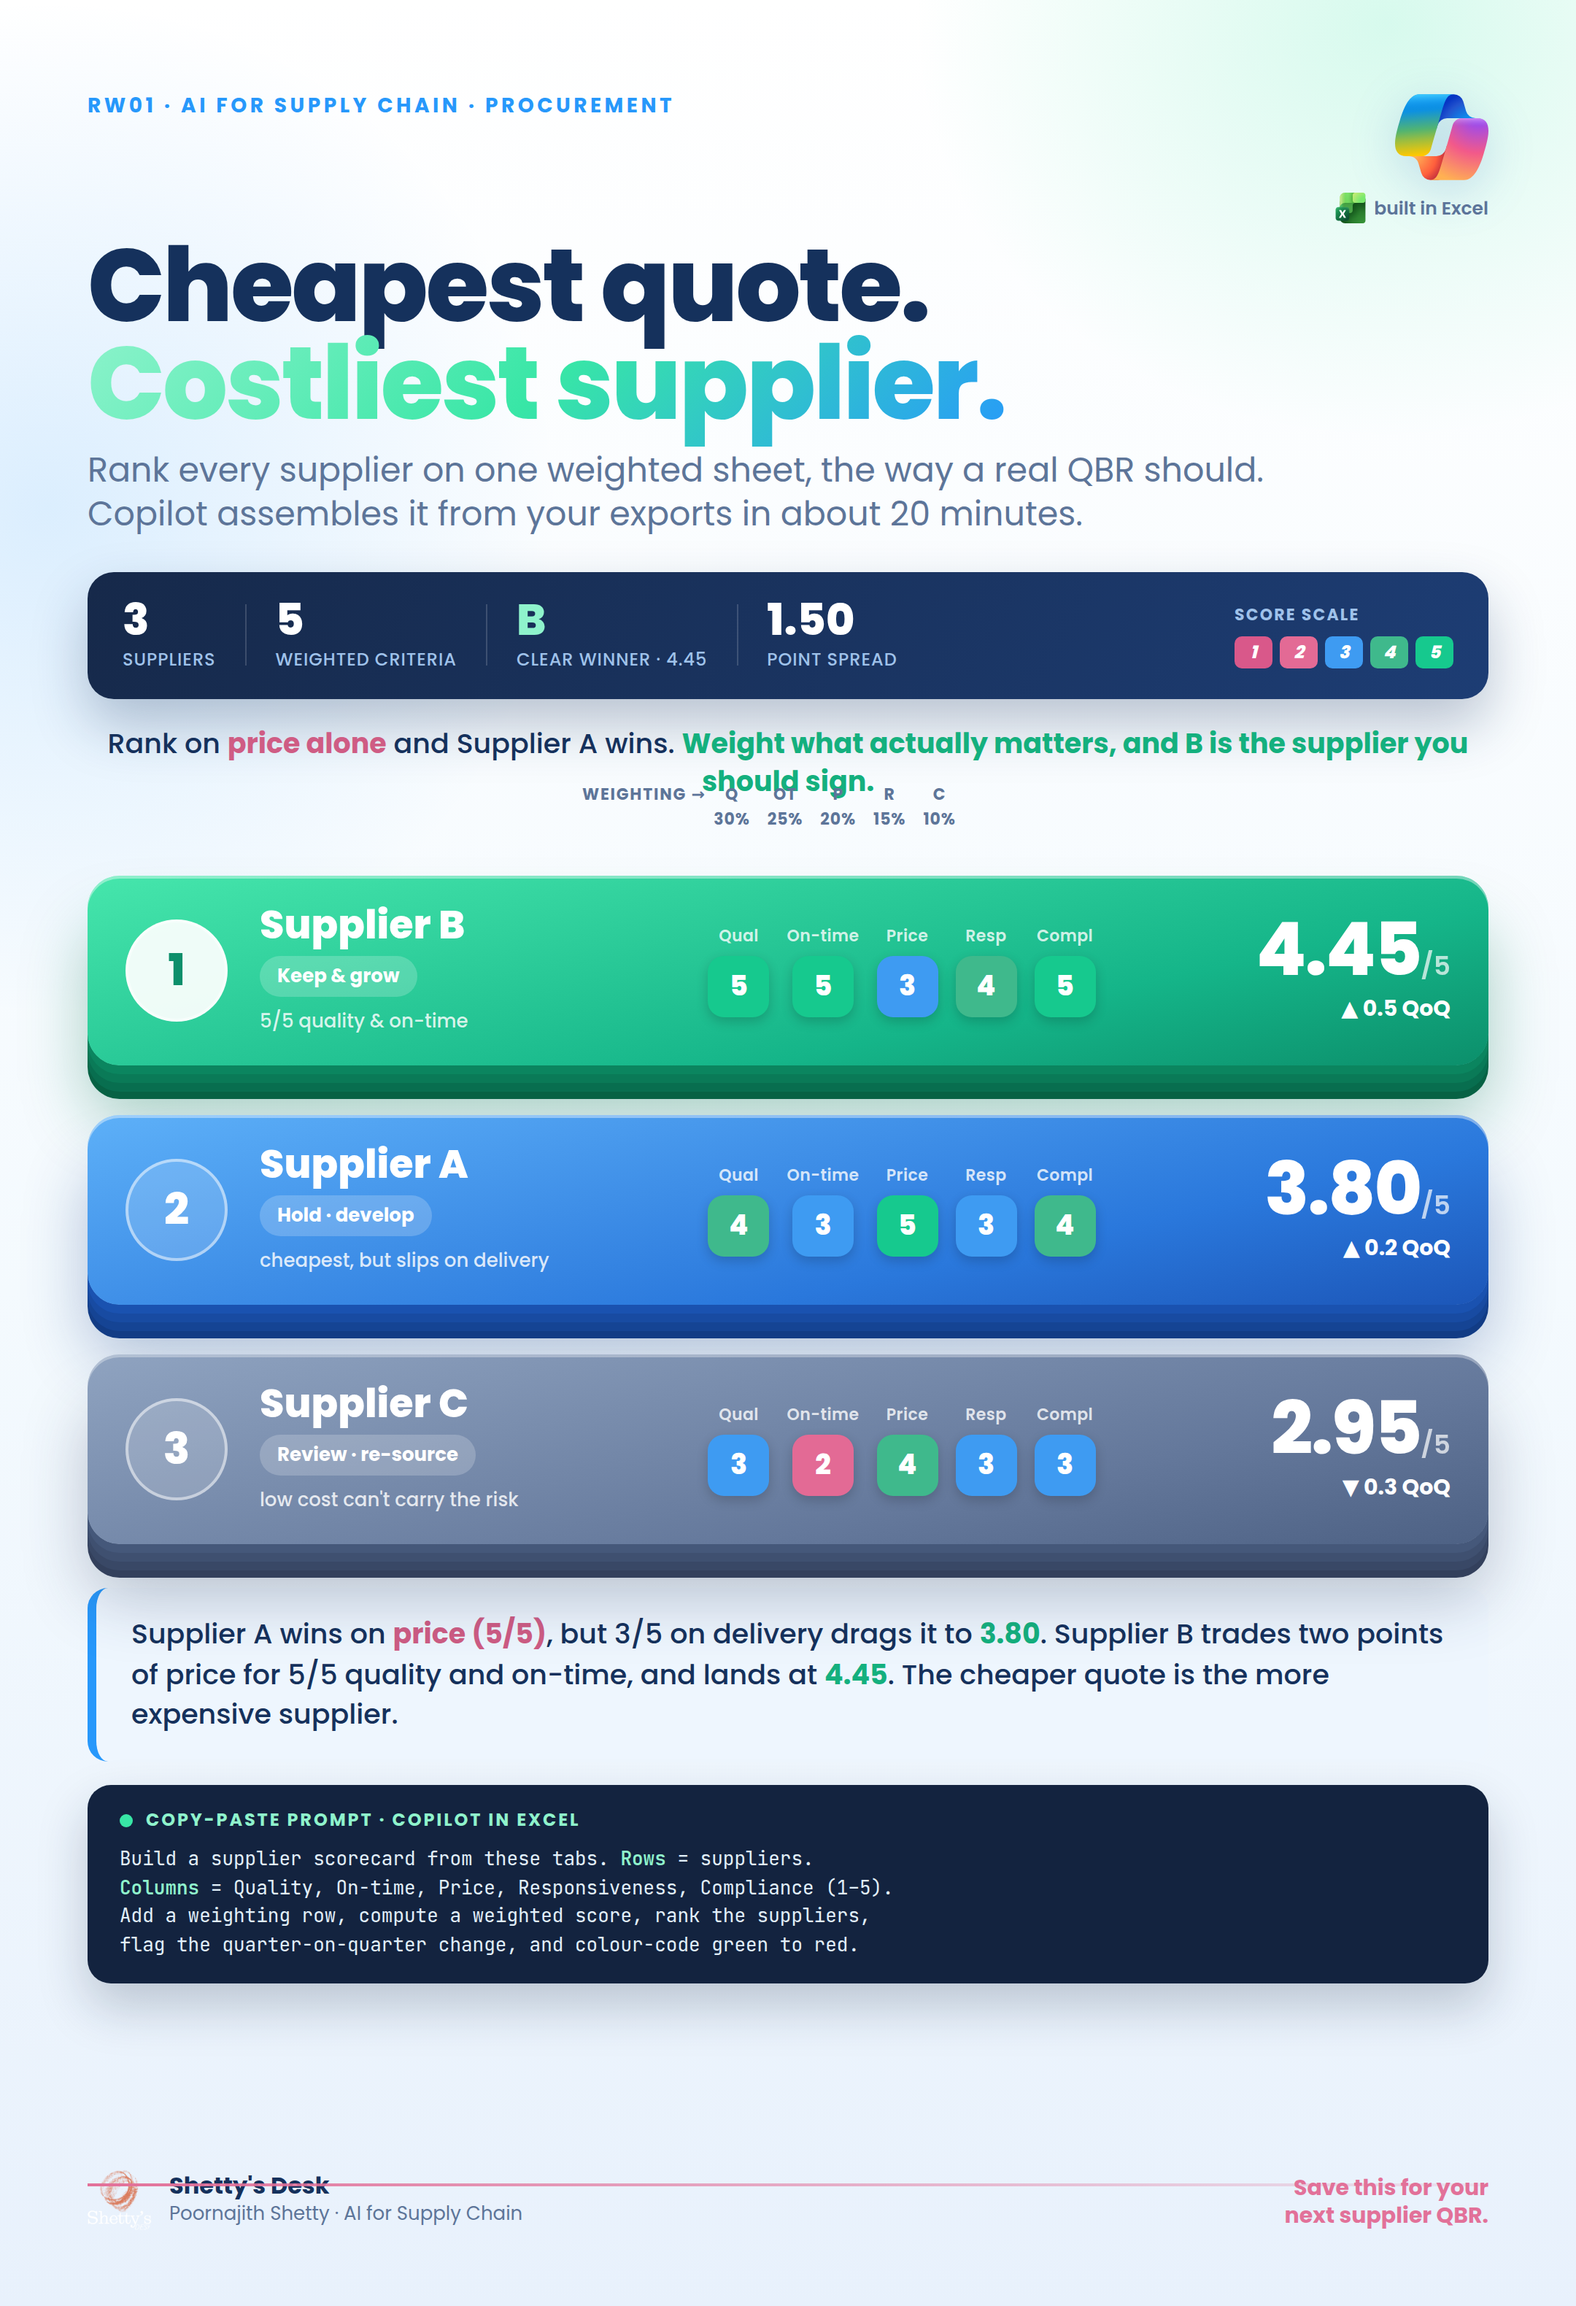
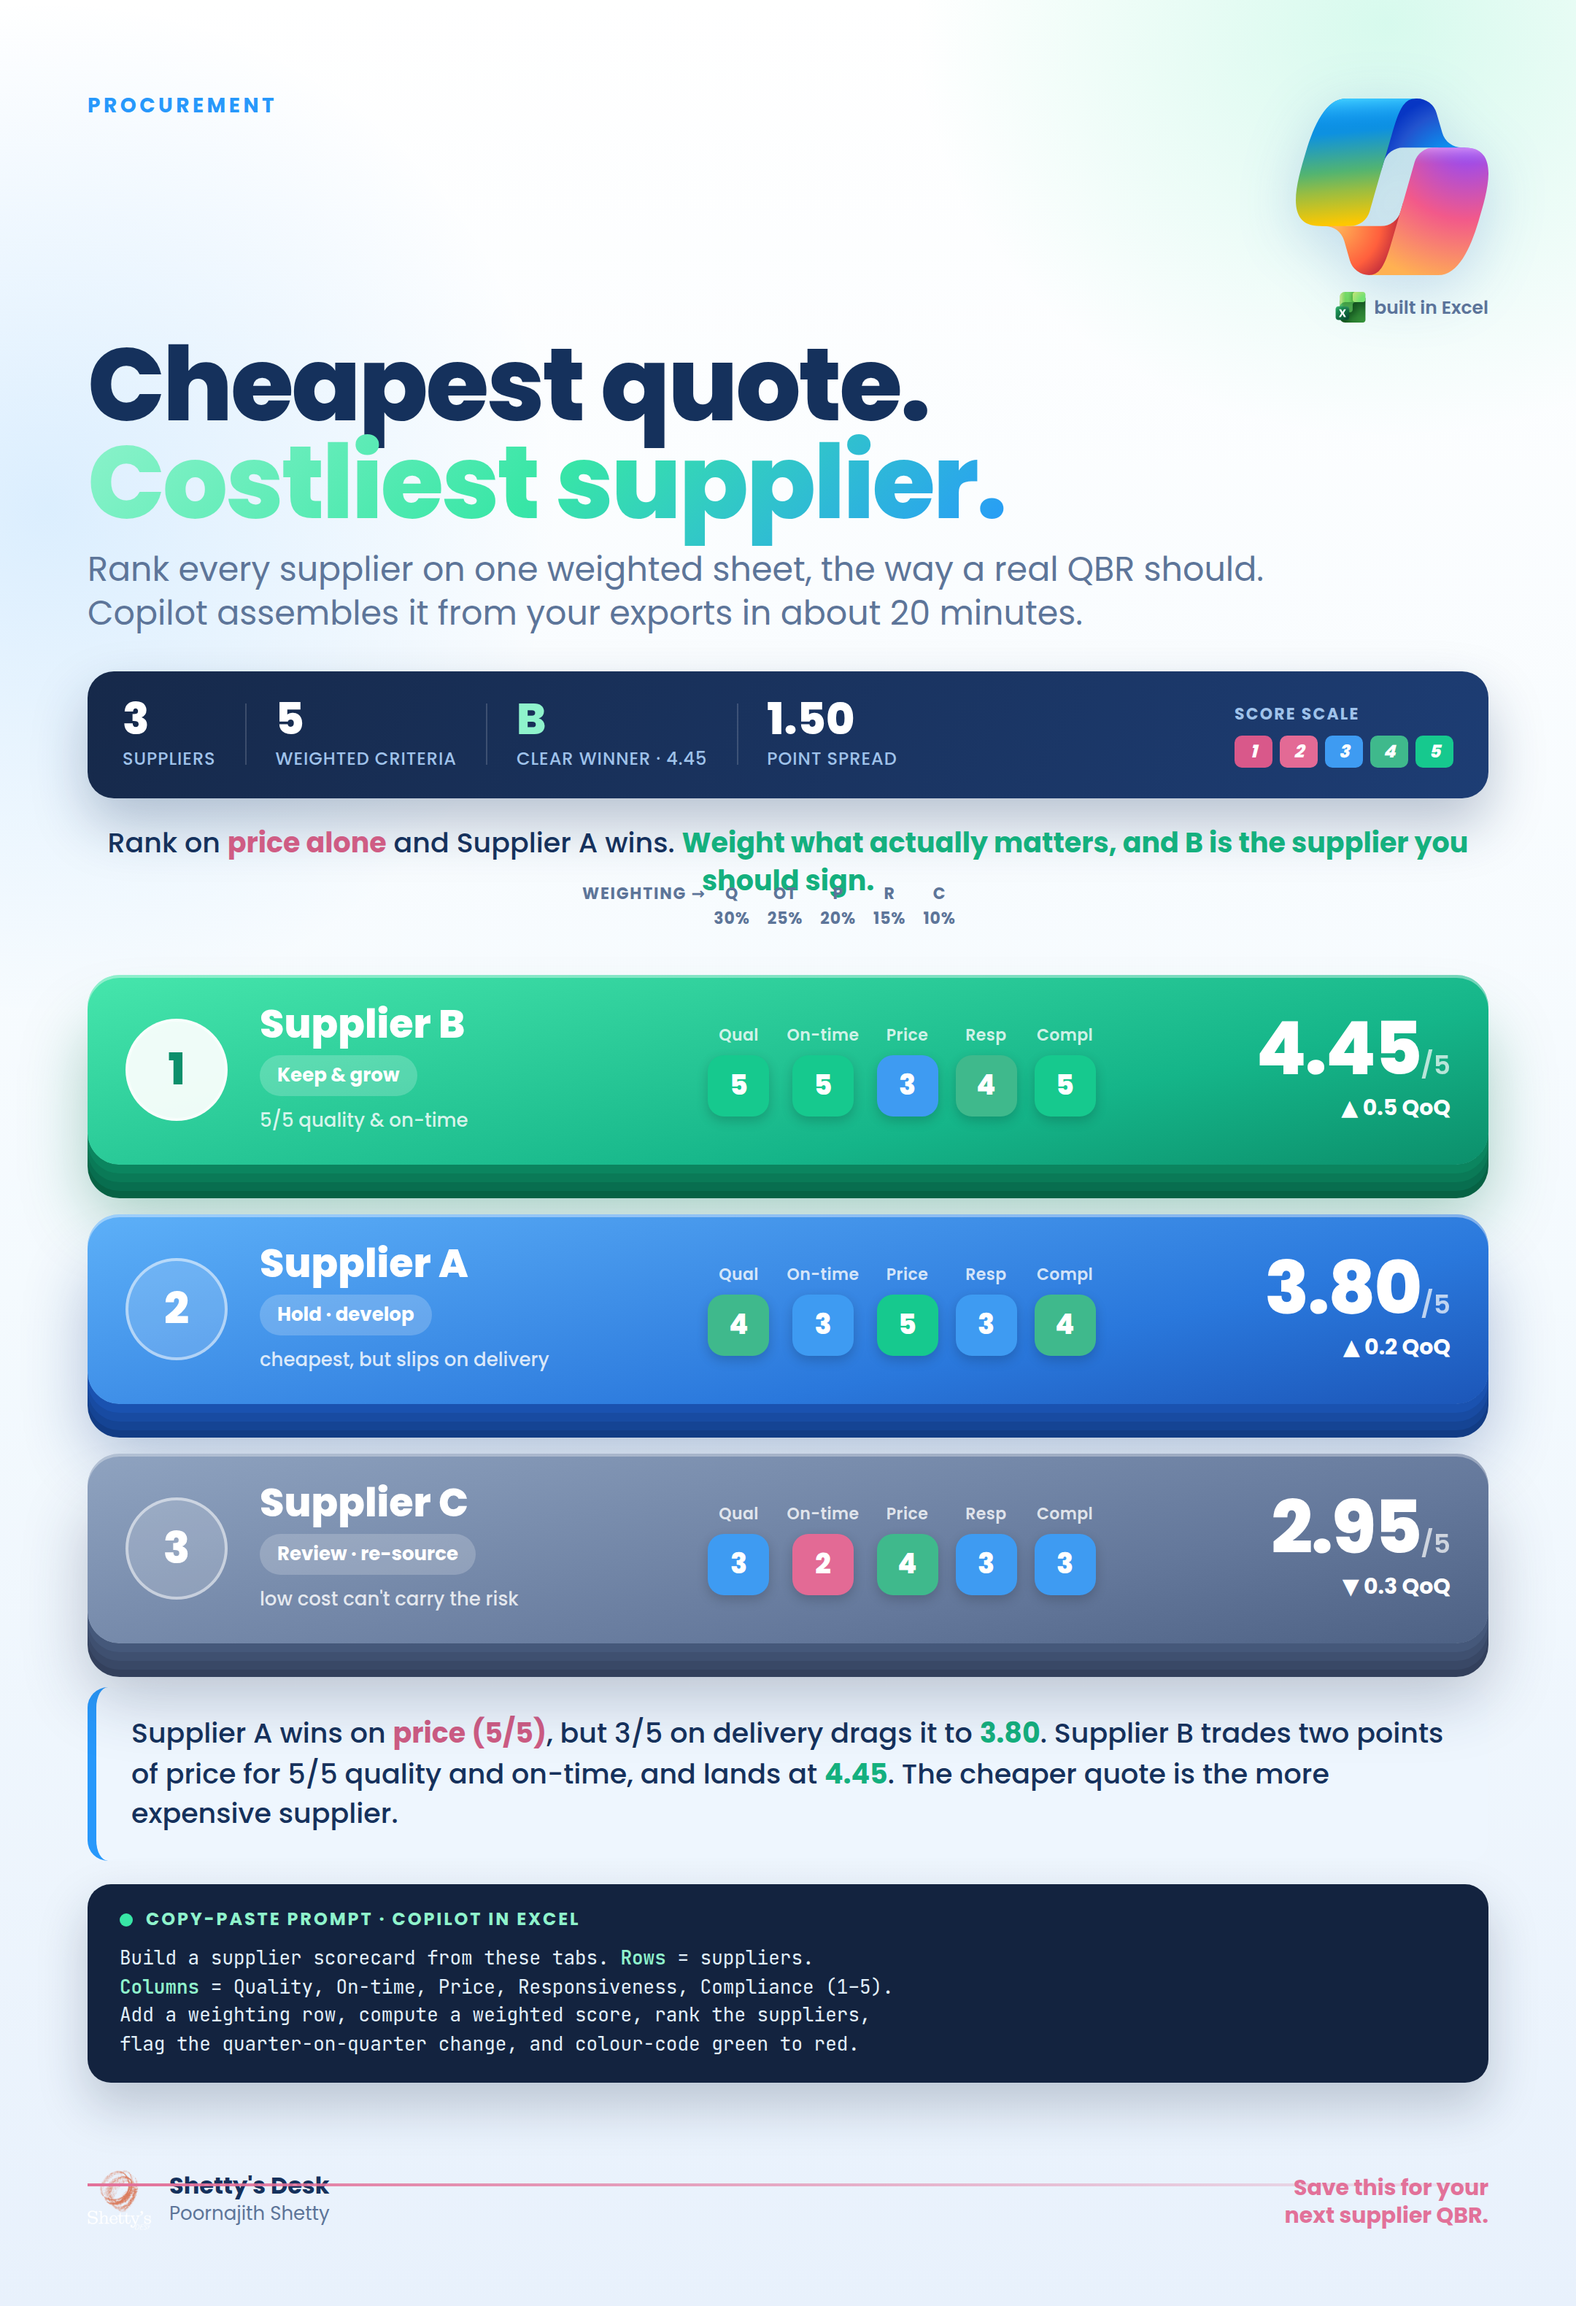
Clean in-image labels + bigger Copilot mark; add gif-storyboard workflow step
- ai05-supplier-scorecard-3d: remove RW01 + "AI for Supply Chain" from the
  published image (kicker now "Procurement"; footer now just Shetty's Desk /
  Poornajith Shetty); enlarge the Copilot logo to a ~132px hero corner mark.
- New skill .claude/skills/gif-storyboard: codifies the next phase — turn an
  approved still into a short looping GIF from its OWN elements via HyperFrames/
  GSAP (motion spine per layout, brand motion grammar, beats table, build steps).
- Add a concrete GIF storyboard (beats table) to the supplier-scorecard post.
- Icon libs: @lobehub/icons (871 brand logos) + lucide-animated installed.
  Note: lucide-animated is React+Framer-Motion (peer react/motion); our render
  engine is HTML+GSAP, so animated icons will be done by GSAP-animating the
  in-repo Lucide/lobehub SVGs unless we add a Remotion path.

Deep-research agent running separately to produce references/layout-frameworks-intelligence.md.

Claude-Session: https://claude.ai/code/session_01QHwTCVSbkRhv54hCup5HwM

diff --git a/infographic-setup/renderer/templates/ai05-supplier-scorecard-3d.html b/infographic-setup/renderer/templates/ai05-supplier-scorecard-3d.html
@@ -24,7 +24,7 @@
   .top{display:flex;justify-content:space-between;align-items:flex-start}
   .kick{font-size:14px;font-weight:700;letter-spacing:.16em;text-transform:uppercase;color:var(--azure)}
   .toolmark{display:flex;flex-direction:column;align-items:flex-end;gap:6px}
-  .toolmark>img{width:64px;height:64px;filter:drop-shadow(0 7px 16px rgba(33,93,195,.20))}
+  .toolmark>img{width:132px;height:132px;filter:drop-shadow(0 9px 20px rgba(33,93,195,.22))}
   .toolmark .tl{font-size:12.5px;font-weight:600;color:var(--muted);display:flex;align-items:center;gap:6px}
   .toolmark .tl img{width:21px;height:21px}
   h1{font-size:70px;font-weight:800;line-height:.95;margin-top:10px;letter-spacing:-1.5px;color:var(--ink)}
@@ -107,7 +107,7 @@
 <body>
 <div id="card">
   <div class="top">
-    <span class="kick">RW01 · AI for Supply Chain · Procurement</span>
+    <span class="kick">Procurement</span>
     <div class="toolmark"><img src="../assets/logos/copilot-color.svg" alt="Copilot"><span class="tl"><img src="../assets/logos/sc/excel.svg" alt="Excel"> built in Excel</span></div>
   </div>
   <h1>Cheapest quote.<br><span class="g">Costliest supplier.</span></h1>
@@ -181,7 +181,7 @@ flag the quarter-on-quarter change, and colour-code green to red.</pre>
   </div>
 
   <div class="foot">
-    <div class="who"><img src="../assets/logos/shettys-desk-logo-1.png" alt="Shetty's Desk"><div><div class="nm">Shetty's Desk</div><div class="hd">Poornajith Shetty · AI for Supply Chain</div></div></div>
+    <div class="who"><img src="../assets/logos/shettys-desk-logo-1.png" alt="Shetty's Desk"><div><div class="nm">Shetty's Desk</div><div class="hd">Poornajith Shetty</div></div></div>
     <div class="save">Save this for your<br>next supplier QBR.</div>
   </div>
 </div>

diff --git a/infographic-setup/.claude/skills/gif-storyboard/SKILL.md b/infographic-setup/.claude/skills/gif-storyboard/SKILL.md
@@ -1,0 +1,69 @@
+---
+name: gif-storyboard
+description: Use after a still infographic is approved, to storyboard and build a short looping GIF/MP4 from the infographic's OWN elements via HyperFrames/GSAP. Invoked with /gif-storyboard [slug]. Turns a static code-rendered infographic into a motion version without redesigning it.
+---
+
+# GIF Storyboard — from infographic to motion (Shetty's Desk)
+
+## Purpose
+Every AI-for-SC (and optionally 101) post ships a **still** first (the deterministic code-render).
+This skill adds the **next phase**: a short, looping **motion** version built from the *same elements*
+of the approved still — no new design, just choreographed reveal. Output feeds the HyperFrames /
+in-repo GSAP anim lane (`renderer/render-anim.mjs` → MP4 + GIF).
+
+**Rule of the lane:** the GIF is the still in motion. Do not invent new content for the GIF — animate
+what is already on the approved infographic. Depth (3D) is kept; motion adds *sequence and emphasis*.
+
+## When to run
+After the still template is approved (`renderer/templates/<slug>.html` → `out/<slug>.png`).
+```
+/gif-storyboard [slug]
+```
+
+## Step 1 — Inventory the elements (from the approved still)
+List every animatable element and its role: title, tool mark, stat-band KPIs, legend, the hero
+(slabs / funnel / bars / cards), per-item data (chips, scores, deltas), insight band, prompt block, footer.
+
+## Step 2 — Choose the motion spine (how the argument unfolds)
+Pick ONE narrative spine that matches the layout's visual rhetoric, then sequence reveals to it:
+
+| Layout (still) | Motion spine (the GIF tells this story) |
+|---|---|
+| Ranked slabs / podium (PF7) | build the field, then the **rank resolves** — losers settle, winner rises + crown lands |
+| Funnel | pour from the wide top, each stage **narrows and drops count** to the eco tip |
+| Comparison / versus | left "claim" types in, then the right **counter answers it** row by row |
+| Maturity ladder | climb **level by level**, "START HERE" pulses at the base |
+| Formula / KPI card | inputs fly in → **formula assembles** → result counts up |
+| Waterfall / bridge | bars **step up/down** to the final total |
+| Process flow / cycle | a token **travels the path**, each node lights as it passes |
+| Anatomy / hub | center appears → **spokes/labels radiate** outward |
+
+## Step 3 — The brand motion grammar (keep it disciplined)
+- **Seek-safe, deterministic** (works with `render-anim.mjs` scrub + HyperFrames): one paused GSAP
+  master timeline on `window.__tl`, `window.__dur`, `window.__ready`. No `Date.now()`/`Math.random()`.
+- **Reveal, don't decorate.** Each element enters once, with intent. Stagger top→bottom / build→resolve.
+- **Earn the climax.** ~70% of the timeline builds; the last ~30% is the payoff (winner rises, funnel hits 1, counter lands, result counts up).
+- **Numbers count up** (stat-band KPIs, weighted scores, percentages) — motion makes data feel computed.
+- **Eco-green is the resolve color** — the positive/win element gets the final highlight beat.
+- **Icons can animate** (draw-on stroke, pop-in, gentle loop) — animate the Lucide/lobehub SVGs in
+  `renderer/assets/` with GSAP (we do NOT use React `lucide-animated`; same result, fits the engine).
+- **Loop clean:** end on a held, complete frame (`HOLD_S`) so the GIF rests on the full infographic.
+- Length **5–8s**, GIF width ~640 for LinkedIn.
+
+## Step 4 — Write the storyboard (beats table)
+Produce a beats table: `t (s) | element | motion | ease | note`. Save it in the post file under
+`## GIF Storyboard`. This is the spec the anim template implements.
+
+## Step 5 — Build + render
+- Copy the approved still template → `<slug>-anim.html`; add the GSAP timeline per the beats; expose
+  `__tl/__dur/__ready`; set initial states with `gsap.from`/`set`.
+- Render: `HOLD_S=1.5 GIF_W=640 CHROME_PATH=<chrome> NODE_PATH=$(npm root -g) node render-anim.mjs templates/<slug>-anim.html out/<slug>`
+- QA the GIF against the still (same final frame), then save `<slug>.gif` + `.mp4` with the post.
+
+## Step 6 — (Optional) HyperFrames CLI path
+For richer motion-graphic treatments, author the same composition for the installed HyperFrames skills
+(`/motion-graphics`) and render with `npx hyperframes render --browser-path <chrome>`. Same paradigm
+(code → deterministic motion, no API cost); use when the GIF needs more than reveal choreography.
+
+## Token budget
+~1–2K. Reads the still template + post file; writes the storyboard + one anim template.

diff --git a/infographic-setup/data/2026-W26/supplier-scorecard-qbr/ai-for-sc-supplier-scorecard-qbr.md b/infographic-setup/data/2026-W26/supplier-scorecard-qbr/ai-for-sc-supplier-scorecard-qbr.md
@@ -108,3 +108,25 @@ Return it as a clean table on a new sheet called "QBR Scorecard".
 | AI still | Higgsfield (Recraft 4.1) | `data/2026-W26/render-experiment/higgsfield-ai05.png` |
 
 Comparative analysis: `data/2026-W26/render-experiment/analysis.md`.
+
+**Flagship still (current direction):** `renderer/templates/ai05-supplier-scorecard-3d.html` → `out/ai05-supplier-scorecard-3d.png` — 3D extruded ranked slabs, dark stat-band + score legend, big Copilot mark, no RW01/series labels in-image.
+
+---
+
+## GIF Storyboard (HyperFrames / GSAP anim lane)
+
+**Motion spine:** ranked slabs — *build the field, then the rank resolves* (winner B rises + crown lands). 6.5s, hold 1.5s, loop. Built from the 3D still's own elements (no new content).
+
+| t (s) | Element | Motion | Ease | Note |
+|---|---|---|---|---|
+| 0.0–0.6 | Title + Copilot mark | title fade/slide up; Copilot mark pops in (scale 0→1, slight spin) | back.out | mark is the hero corner |
+| 0.5–1.1 | Stat-band | slides down; KPIs **count up** (3 · 5 · B · 1.50) | power2 | numbers feel computed |
+| 1.0–1.3 | Score legend | chips 1→5 pop left-to-right | back.out | sets the 1–5 scale |
+| 1.3–1.6 | THE SHIFT line | "price alone → A" flashes **coral**, then "weight what matters → B" resolves **eco** | power1 | the argument |
+| 1.6–3.0 | 3 slabs | extrude up in order A → C → B; per-slab criteria chips pop (stagger); scores **count up** to 3.80 / 2.95 / 4.45; bars fill; deltas fade | back.out / power2 | depth kept |
+| 3.0–3.6 | Rank resolve (climax) | B slab lifts to top with eco glow; **crown drops in**; A & C settle | back.out(2) | the payoff |
+| 3.6–4.1 | Worked verdict | fades in; "4.45" pulses eco once | power1 | lands the thesis |
+| 4.1–4.6 | Prompt + footer | fade up | power1 | utility + brand |
+| 4.6–6.5 | Hold | full infographic held for the loop rest | — | clean loop |
+
+**Build:** copy `ai05-supplier-scorecard-3d.html` → `ai05-supplier-scorecard-3d-anim.html`; add a paused GSAP master timeline (`window.__tl/__dur/__ready`) implementing the beats; render via `render-anim.mjs` (`HOLD_S=1.5 GIF_W=640`). Icons animate from the in-repo Lucide/lobehub SVGs (GSAP), not React.
